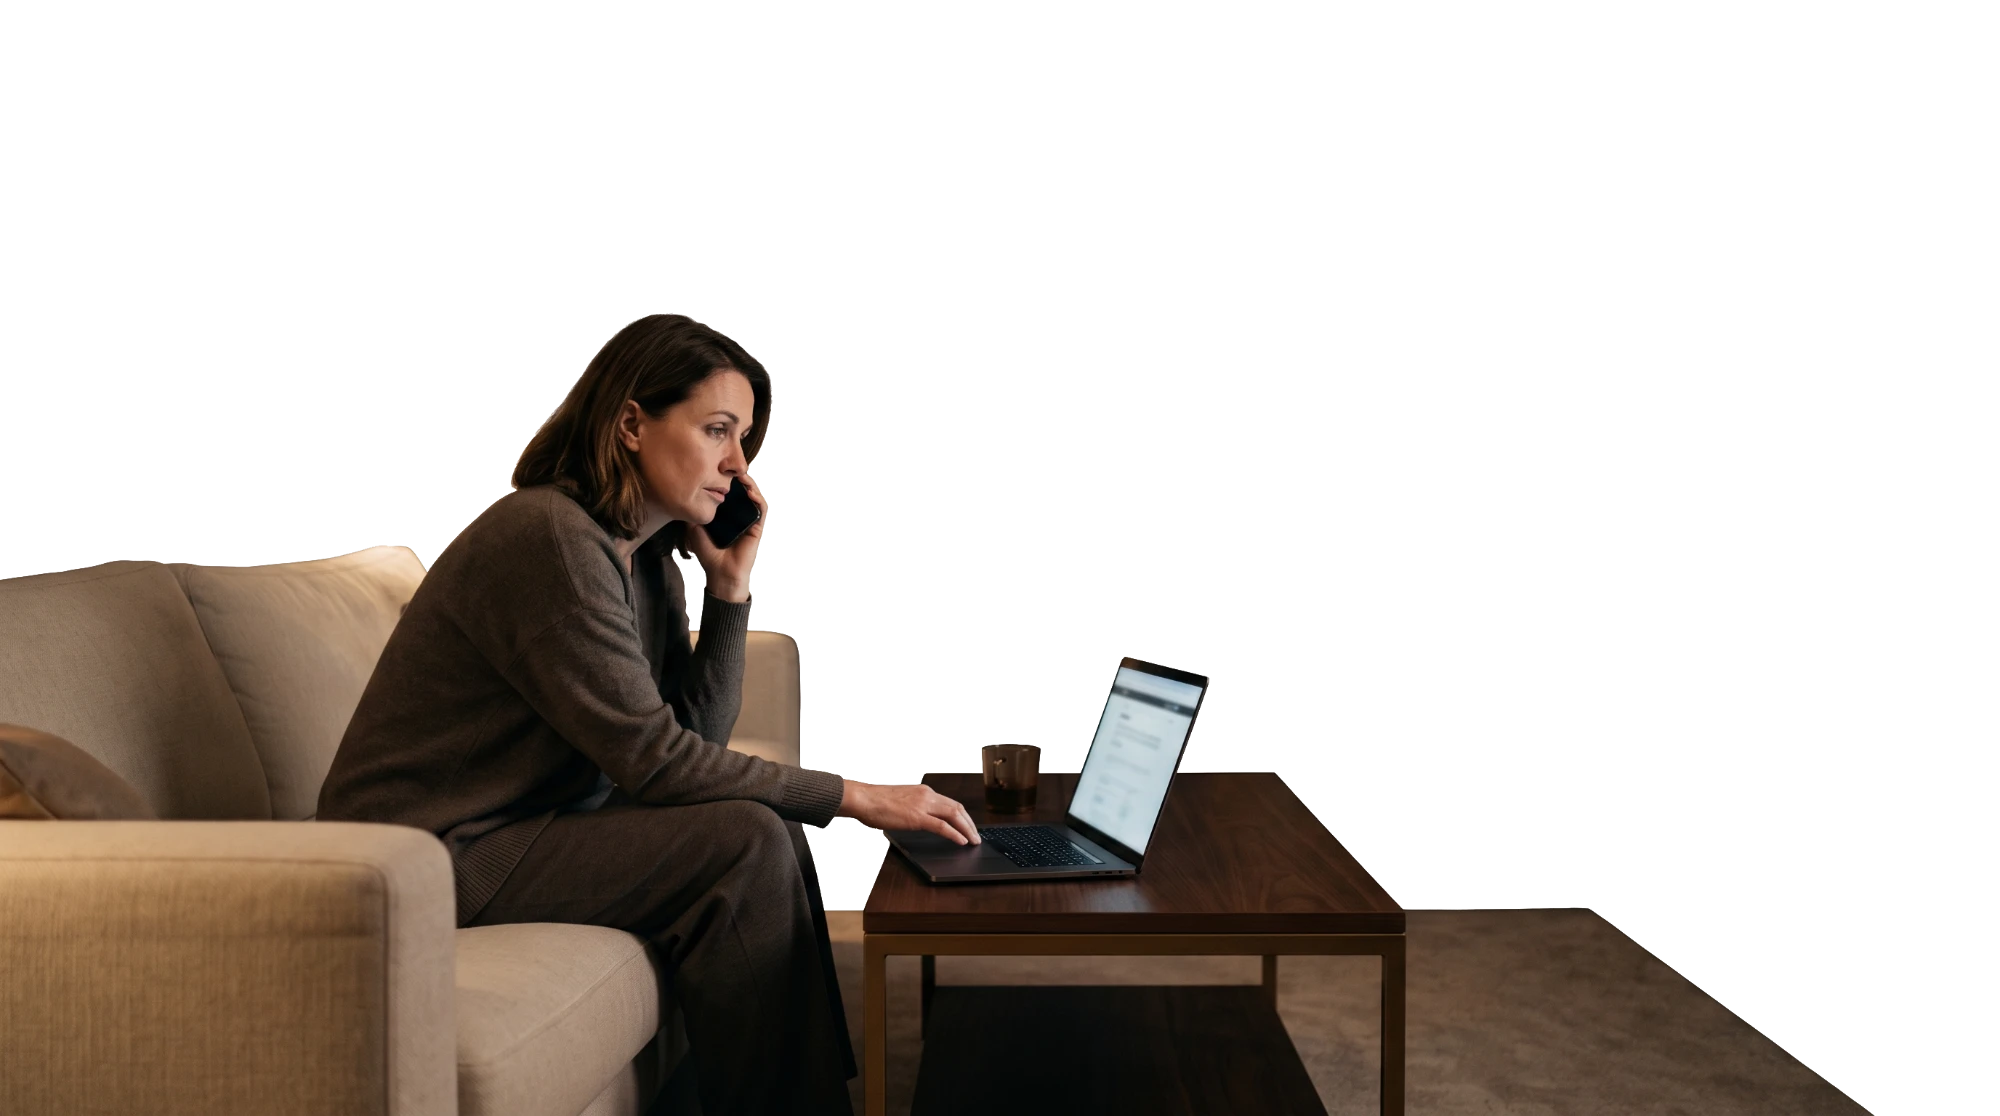
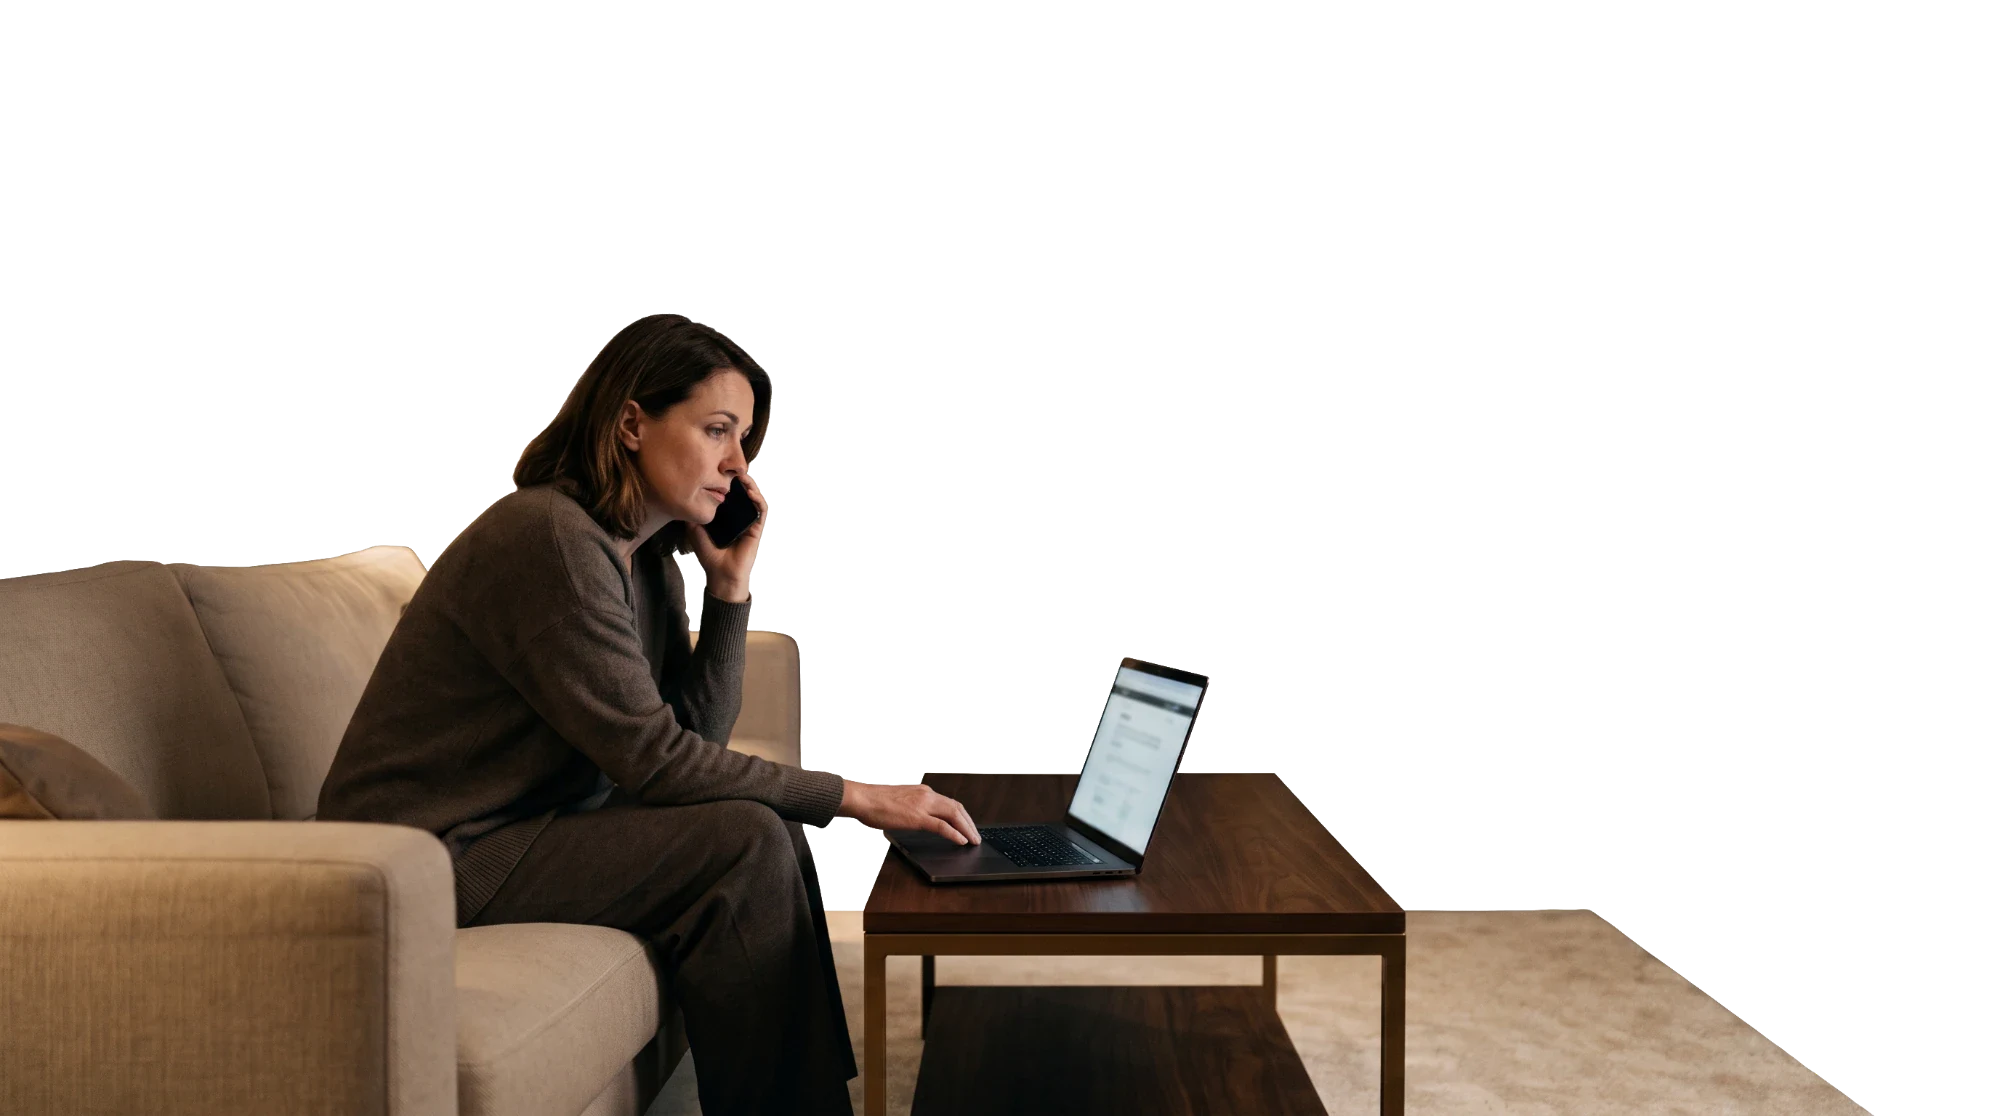
Remplace les photos de l'acte 03 et retire le voile de l'acte 07
Nouvelles photos du soir (détourage + plein cadre, 2000x1116, recalées au
pixel : écart moyen de 2 % sous le sujet, soit la seule quantification du
webp).

Acte 07, la réponse : plus aucun voile. Il délavait toute la scène alors
que c'est elle qui doit se lire en couleurs franches. Comme le titre
devenait alors illisible sur la nuit, lui et ses trois blocs attendent la
fin de la dissolution et se posent sur l'ivoire (titre 131,4 -> 134,4,
blocs 134,4/135,8/137,2 -> 137,6/138,8/140,0, sorties 144,4 -> 145,0).

Corrige aussi le titre de l'acte 03 en portrait et en compact : son
décalage à droite, pensé pour le paysage, le sortait du cadre (x=314
dans 375px). Dans ces gabarits le titre est en haut, il reprend donc la
colonne commune, et l'angle du voile passe par --veil-angle pour que le
jumeau suive l'axe de lecture. Les deux derniers overrides écrits pour le
long titre administratif suivent leur acte, passé de 3 à 4.

Changed region(s): [[0.403, 0.7007, 0.93, 1.0], [0.31, 0.9444, 0.372, 1.0], [0.465, 0.6703, 0.527, 0.7312]]

diff --git a/src/constants/homeStory.js b/src/constants/homeStory.js
@@ -73,7 +73,7 @@ export const TIMING = {
   dissolveDur: 3.6,
   camMoveDur: 4.4,
 
-  titles: [10.4, 32.4, 47.6, 66.8, 85.0, 110.8, 131.4, 151.0],
+  titles: [10.4, 32.4, 47.6, 66.8, 85.0, 110.8, 134.4, 151.0],
   titleInDur: 1.9,
   titleOutDur: 1.0,
   /* Marge de repos ajoutée au repère du rail : le scrub poursuit la position
@@ -82,9 +82,18 @@ export const TIMING = {
   cueSettle: 1.4,
   // Sortie propre à chaque acte : le titre part avant ses blocs, sauf à l'acte
   // 02 où il part après eux et où la salle d'attente s'efface en dernier.
-  titleOut: [21.6, 41.2, 60.8, 78.6, 103.0, 125.8, 144.8, 168.0],
+  titleOut: [21.6, 41.2, 60.8, 78.6, 103.0, 125.8, 145.4, 168.0],
 
-  actOut: { 1: 21.4, 2: 40.4, 3: 60.4, 4: 78.8, 5: 103.4, 6: 125.2, 7: 144.4, 8: 166.6 },
+  actOut: {
+    1: 21.4,
+    2: 40.4,
+    3: 60.4,
+    4: 78.8,
+    5: 103.4,
+    6: 125.2,
+    7: 145.0,
+    8: 166.6,
+  },
   blockInDur: 1.35,
   blockOutDur: 1.0,
 
@@ -119,10 +128,12 @@ export const TIMING = {
     r1: { at: 116.6, dur: 2.2, out: 124.6 },
     r2: { at: 118.0, dur: 2.2, out: 124.9 },
     r3: { at: 119.4, dur: 2.2, out: 125.2 },
-    // Acte 07 : la réponse arrive, le même soir, dans le même salon.
-    av1: { at: 134.4, out: 144.4 },
-    av2: { at: 135.8, out: 144.4 },
-    av3: { at: 137.2, out: 144.4 },
+    // Acte 07 : la réponse arrive, le même soir, dans le même salon. La
+    // scène n'ayant aucun voile, titre et blocs attendent la fin de la
+    // dissolution (132,6 + 3,6) pour se poser sur l'ivoire et non sur la nuit.
+    av1: { at: 137.6, out: 145.0 },
+    av2: { at: 138.8, out: 145.0 },
+    av3: { at: 140.0, out: 145.0 },
     // Acte 06 : la scène d'accueil apaisée a son propre titre, la cascade peut
     // donc respirer davantage que celle qui partageait l'écran avec le compteur.
     r4: { at: 157.6, out: 166.6 },
@@ -158,7 +169,12 @@ export const TIMING = {
     { at: 70.0, v: 0.6 },
     { at: 80.6, v: 0.26 },
     { at: 107.0, v: 0.82 },
-    { at: 127.0, v: 0.46 },
+    /* Acte 07 : AUCUN voile. Le voile délavait toute la scène, alors que
+       c'est elle, la réponse, qui doit se lire en couleurs franches. Il
+       s'éteint dès que le titre de l'acte 06 part (125,8), donc avant que la
+       nouvelle photo n'entre (127,6), et le titre attend la dissolution pour
+       se poser sur l'ivoire, où il n'a besoin d'aucune aide. */
+    { at: 125.8, v: 0 },
     { at: 146.8, v: 0.68 },
     /* Le voile reste haut pendant tout l'accueil apaisé : le titre passe
              sur le comptoir et l'écran, très clairs, et s'y perdait. */
@@ -598,7 +614,6 @@ export const SILK = [
   { cy: 0.58, amp: 0.06, f: 1.75, ph: 5.1, sp: 0.86, th: 0.04 },
   { cy: 0.36, amp: 0.055, f: 2.1, ph: 2.4, sp: 0.63, th: 0.028 },
 ];
-
 
 /* Décors: chaque scène a sa photo complète et son détourage. Les DEUX couches
    partagent la même boîte 1920x1080 en `object-fit:cover`, c'est ce qui donne

diff --git a/src/styles/home-story.css b/src/styles/home-story.css
@@ -244,7 +244,7 @@
   transform: scale(var(--cover, 1));
   transform-origin: 50% 50%;
   background: linear-gradient(
-    96deg,
+    var(--veil-angle, 96deg),
     rgba(var(--ground-rgb), 0.98) 0%,
     rgba(var(--ground-rgb), 0.96) 34%,
     rgba(var(--ground-rgb), 0.82) 52%,
@@ -253,16 +253,10 @@
   );
 }
 
-/* Jumeau du voile, retourné: même dégradé, même rôle, côté droit. */
+/* Jumeau du voile : même dégradé, même rôle, retourné côté droit. Seul
+   l'angle change, le reste est hérité de .scrim. */
 .home-story .scrim-right {
-  background: linear-gradient(
-    276deg,
-    rgba(var(--ground-rgb), 0.98) 0%,
-    rgba(var(--ground-rgb), 0.96) 34%,
-    rgba(var(--ground-rgb), 0.82) 52%,
-    rgba(var(--ground-rgb), 0.34) 66%,
-    rgba(var(--ground-rgb), 0) 82%
-  );
+  --veil-angle: 276deg;
 }
 
 /* ============================================================ sphère ====== */
@@ -1115,8 +1109,19 @@
 }
 /* Titre long : un cran plus bas, il tient sur une ligne de moins et
    dégage le visage du praticien. */
-.home-story.is-portrait .act[data-act='3'] h2 {
+.home-story.is-portrait .act[data-act='4'] h2 {
   font-size: 84px;
+}
+
+/* En portrait le titre est EN HAUT et le voile descend verticalement : le
+   décalage à droite de l'acte 03, pensé pour le paysage, sortirait le texte
+   du cadre. Il reprend donc la colonne commune. */
+.home-story.is-portrait .act[data-act='3'] {
+  left: 0;
+  width: 100%;
+}
+.home-story.is-portrait .act[data-act='3'] h2 {
+  text-align: left;
 }
 
 .home-story.is-portrait .hero {
@@ -1276,8 +1281,21 @@
   font-size: 84px;
   max-width: 1240px;
 }
+.home-story.is-compact .act[data-act='4'] h2 {
+  max-width: 1080px;
+}
+/* Idem : en compact la colonne est déjà étroite, le titre reste à gauche, et
+   le jumeau du voile reprend donc l'axe de gauche. */
+.home-story.is-compact .scrim-right {
+  --veil-angle: 96deg;
+}
+.home-story.is-compact .act[data-act='3'] {
+  left: 0;
+  width: 100%;
+}
 .home-story.is-compact .act[data-act='3'] h2 {
   max-width: 1080px;
+  text-align: left;
 }
 .home-story.is-compact .hero h1 {
   font-size: 96px;
